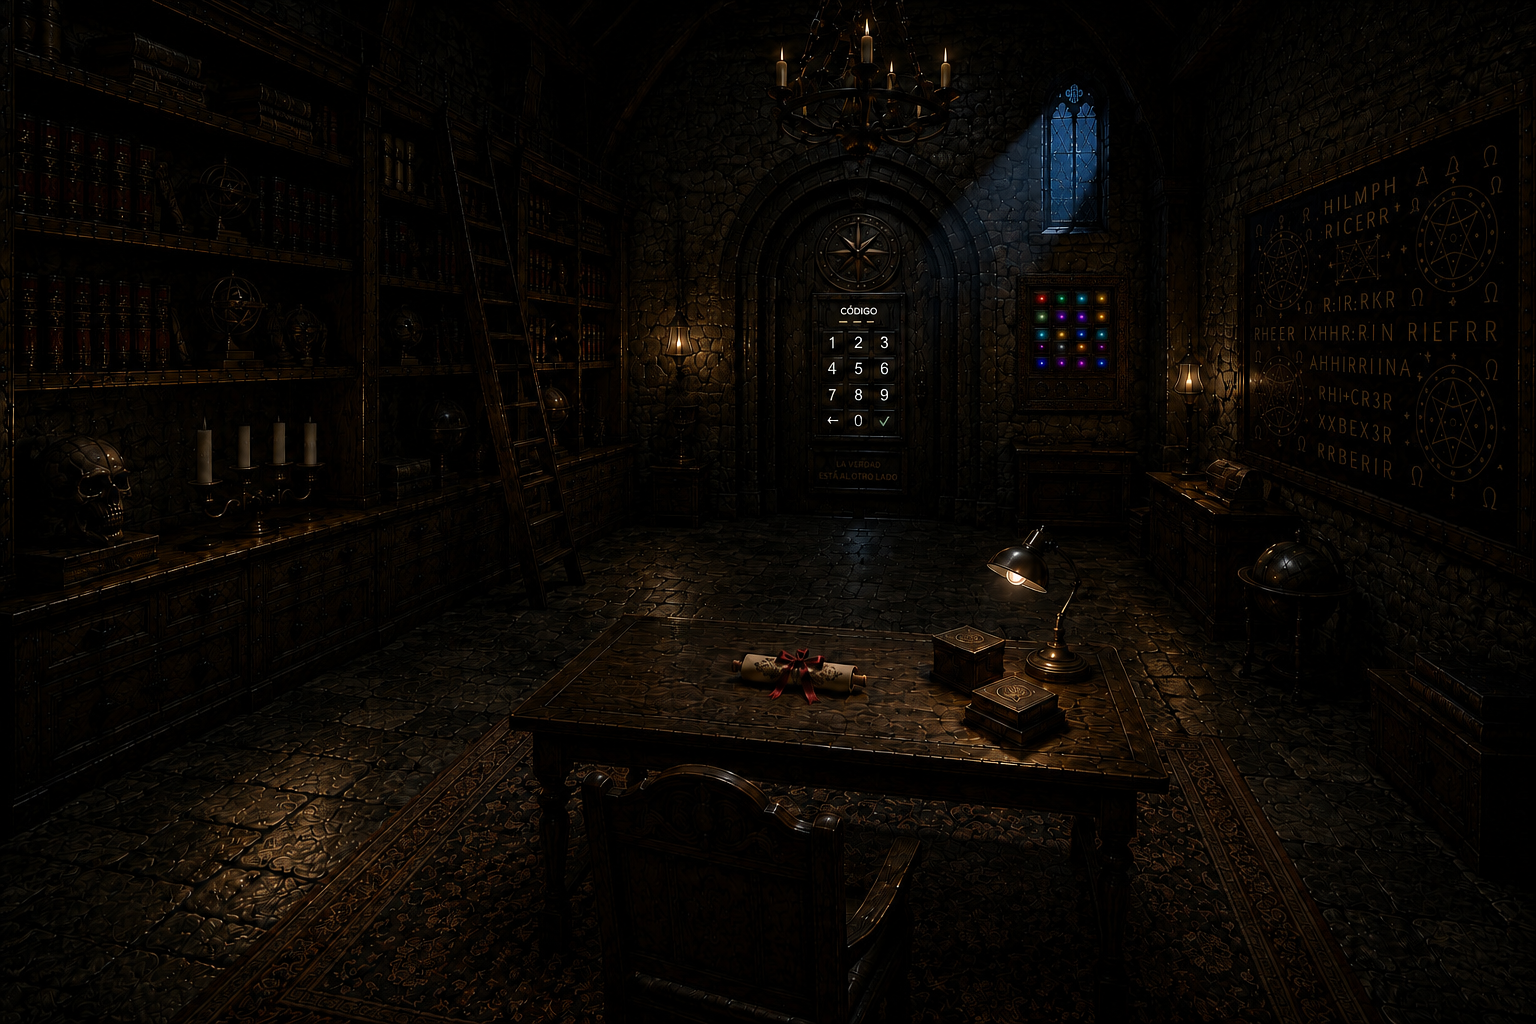
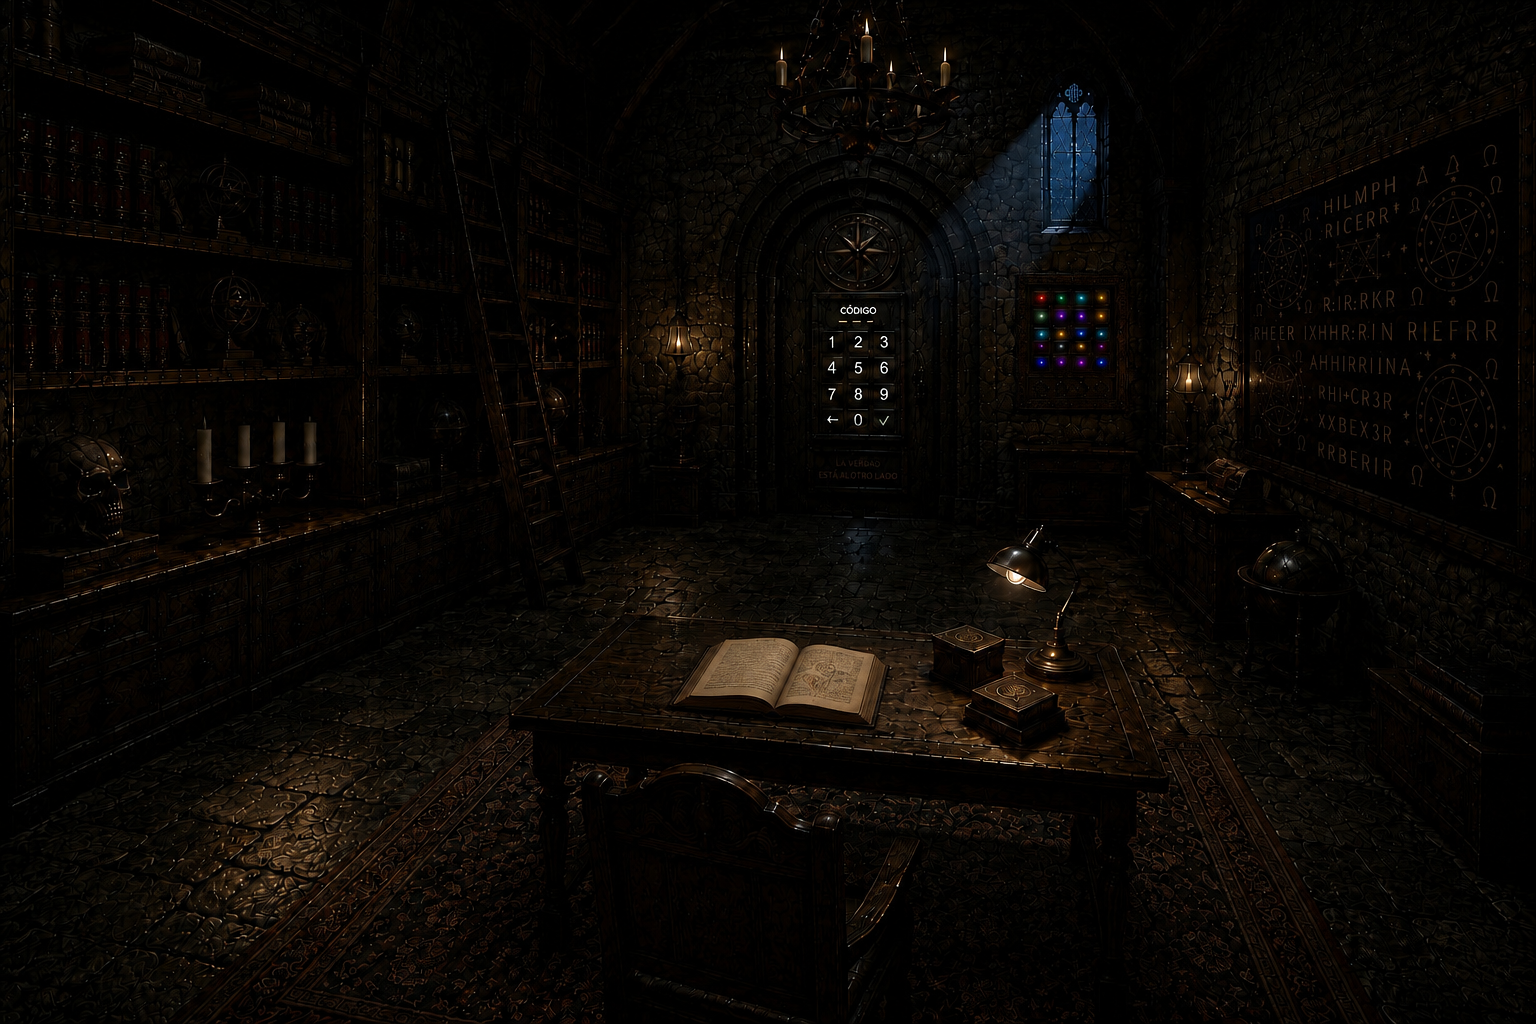
add to se hit boxes to check the issue with mobile

diff --git a/main.js b/main.js
@@ -26,6 +26,7 @@ let timerStartedAt = null
 let timerActive = false
 let lastTouchTimestamp = 0
 const SHOW_MOUSE_COORDINATES = GAME_RUNTIME.SHOW_MOUSE_COORDINATES
+const SHOW_INTERACTION_HITBOXES = GAME_RUNTIME.SHOW_INTERACTION_HITBOXES
 
 const replayButton = {
 	width: GAME_RUNTIME.REPLAY_BUTTON.WIDTH,
@@ -402,6 +403,32 @@ function drawMouseCoordinates() {
 	canvasContext.fillText(`X: ${mouseX}  Y: ${mouseY}`, 10, 20)
 }
 
+function drawDebugRoomHitboxes() {
+	if (gameState.isKeypadOpen || gameState.isCandleOpen || gameState.isColorPuzzleOpen || gameState.isScrollOpen || gameState.isRuneChestOpen || runesState.isOpen || isOptionsOpen) {
+		return
+	}
+
+	const activeRoomHitboxes = roomInteractions[currentRoom] || []
+	activeRoomHitboxes.forEach((zone, index) => {
+		const isBookHitbox = currentRoom === ROOM.MAIN && index === activeRoomHitboxes.length - 1
+
+		canvasContext.save()
+		canvasContext.fillStyle = isBookHitbox ? "rgba(255, 196, 77, 0.22)" : "rgba(80, 200, 255, 0.12)"
+		canvasContext.strokeStyle = isBookHitbox ? "#ffc44d" : "#50c8ff"
+		canvasContext.lineWidth = isBookHitbox ? 3 : 2
+		canvasContext.setLineDash(isBookHitbox ? [] : [8, 6])
+		canvasContext.fillRect(zone.x, zone.y, zone.width, zone.height)
+		canvasContext.strokeRect(zone.x, zone.y, zone.width, zone.height)
+		canvasContext.font = "12px Arial"
+		canvasContext.fillStyle = isBookHitbox ? "#ffe2a3" : "#d9f6ff"
+		const label = isBookHitbox
+			? `LIBRO ${zone.width}x${zone.height}`
+			: `${Math.round(zone.width)}x${Math.round(zone.height)}`
+		canvasContext.fillText(label, zone.x + 4, Math.max(14, zone.y - 6))
+		canvasContext.restore()
+	})
+}
+
 function formatTimerText(remainingMs) {
 	const totalSeconds = Math.max(0, Math.floor(remainingMs / 1000))
 	const minutes = Math.floor(totalSeconds / 60)
@@ -760,6 +787,10 @@ export function draw() {
 	}
 
 	// Herramienta de depuración opcional
+	if (SHOW_INTERACTION_HITBOXES) {
+		drawDebugRoomHitboxes()
+	}
+
 	if (SHOW_MOUSE_COORDINATES) {
 		drawMouseCoordinates()
 	}

diff --git a/config.js b/config.js
@@ -122,9 +122,9 @@ export const INTERFACE_DIMENSIONS = {
 	ROOM_ONE_RUNES_HEIGHT: 40,
 
 	// Dimensiones reales del pergamino en la Habitación Uno
-	ROOM_ONE_SCROLL_X: 520,
+	ROOM_ONE_SCROLL_X: 500,
 	ROOM_ONE_SCROLL_Y: 390,
-	ROOM_ONE_SCROLL_WIDTH: 105,
+	ROOM_ONE_SCROLL_WIDTH: 125,
 	ROOM_ONE_SCROLL_HEIGHT: 35,
 
 	// Hitbox del puzzle de colores visible en la Habitación Cuatro
@@ -155,9 +155,9 @@ export const INTERFACE_DIMENSIONS = {
 	ROOM_MAIN_RUNES_WIDTH: 40,
 	ROOM_MAIN_RUNES_HEIGHT: 40,
 
-	ROOM_MAIN_SCROLL_X: 520,
+	ROOM_MAIN_SCROLL_X: 500,
 	ROOM_MAIN_SCROLL_Y: 390,
-	ROOM_MAIN_SCROLL_WIDTH: 105,
+	ROOM_MAIN_SCROLL_WIDTH: 125,
 	ROOM_MAIN_SCROLL_HEIGHT: 35,
 
 	ROOM_EXIT_GATE_COLORS_X: 900,
@@ -277,7 +277,8 @@ export const GAME_SETTINGS = {
 
 // ⚡ CONFIGURACIÓN DE FLUJO Y RENDIMIENTO
 export const GAME_RUNTIME = {
-	SHOW_MOUSE_COORDINATES: false,
+	SHOW_MOUSE_COORDINATES: true,
+	SHOW_INTERACTION_HITBOXES: true,
 	TOUCH_CLICK_GUARD_MS: 600,
 	REPLAY_BUTTON: {
 		WIDTH: 225,